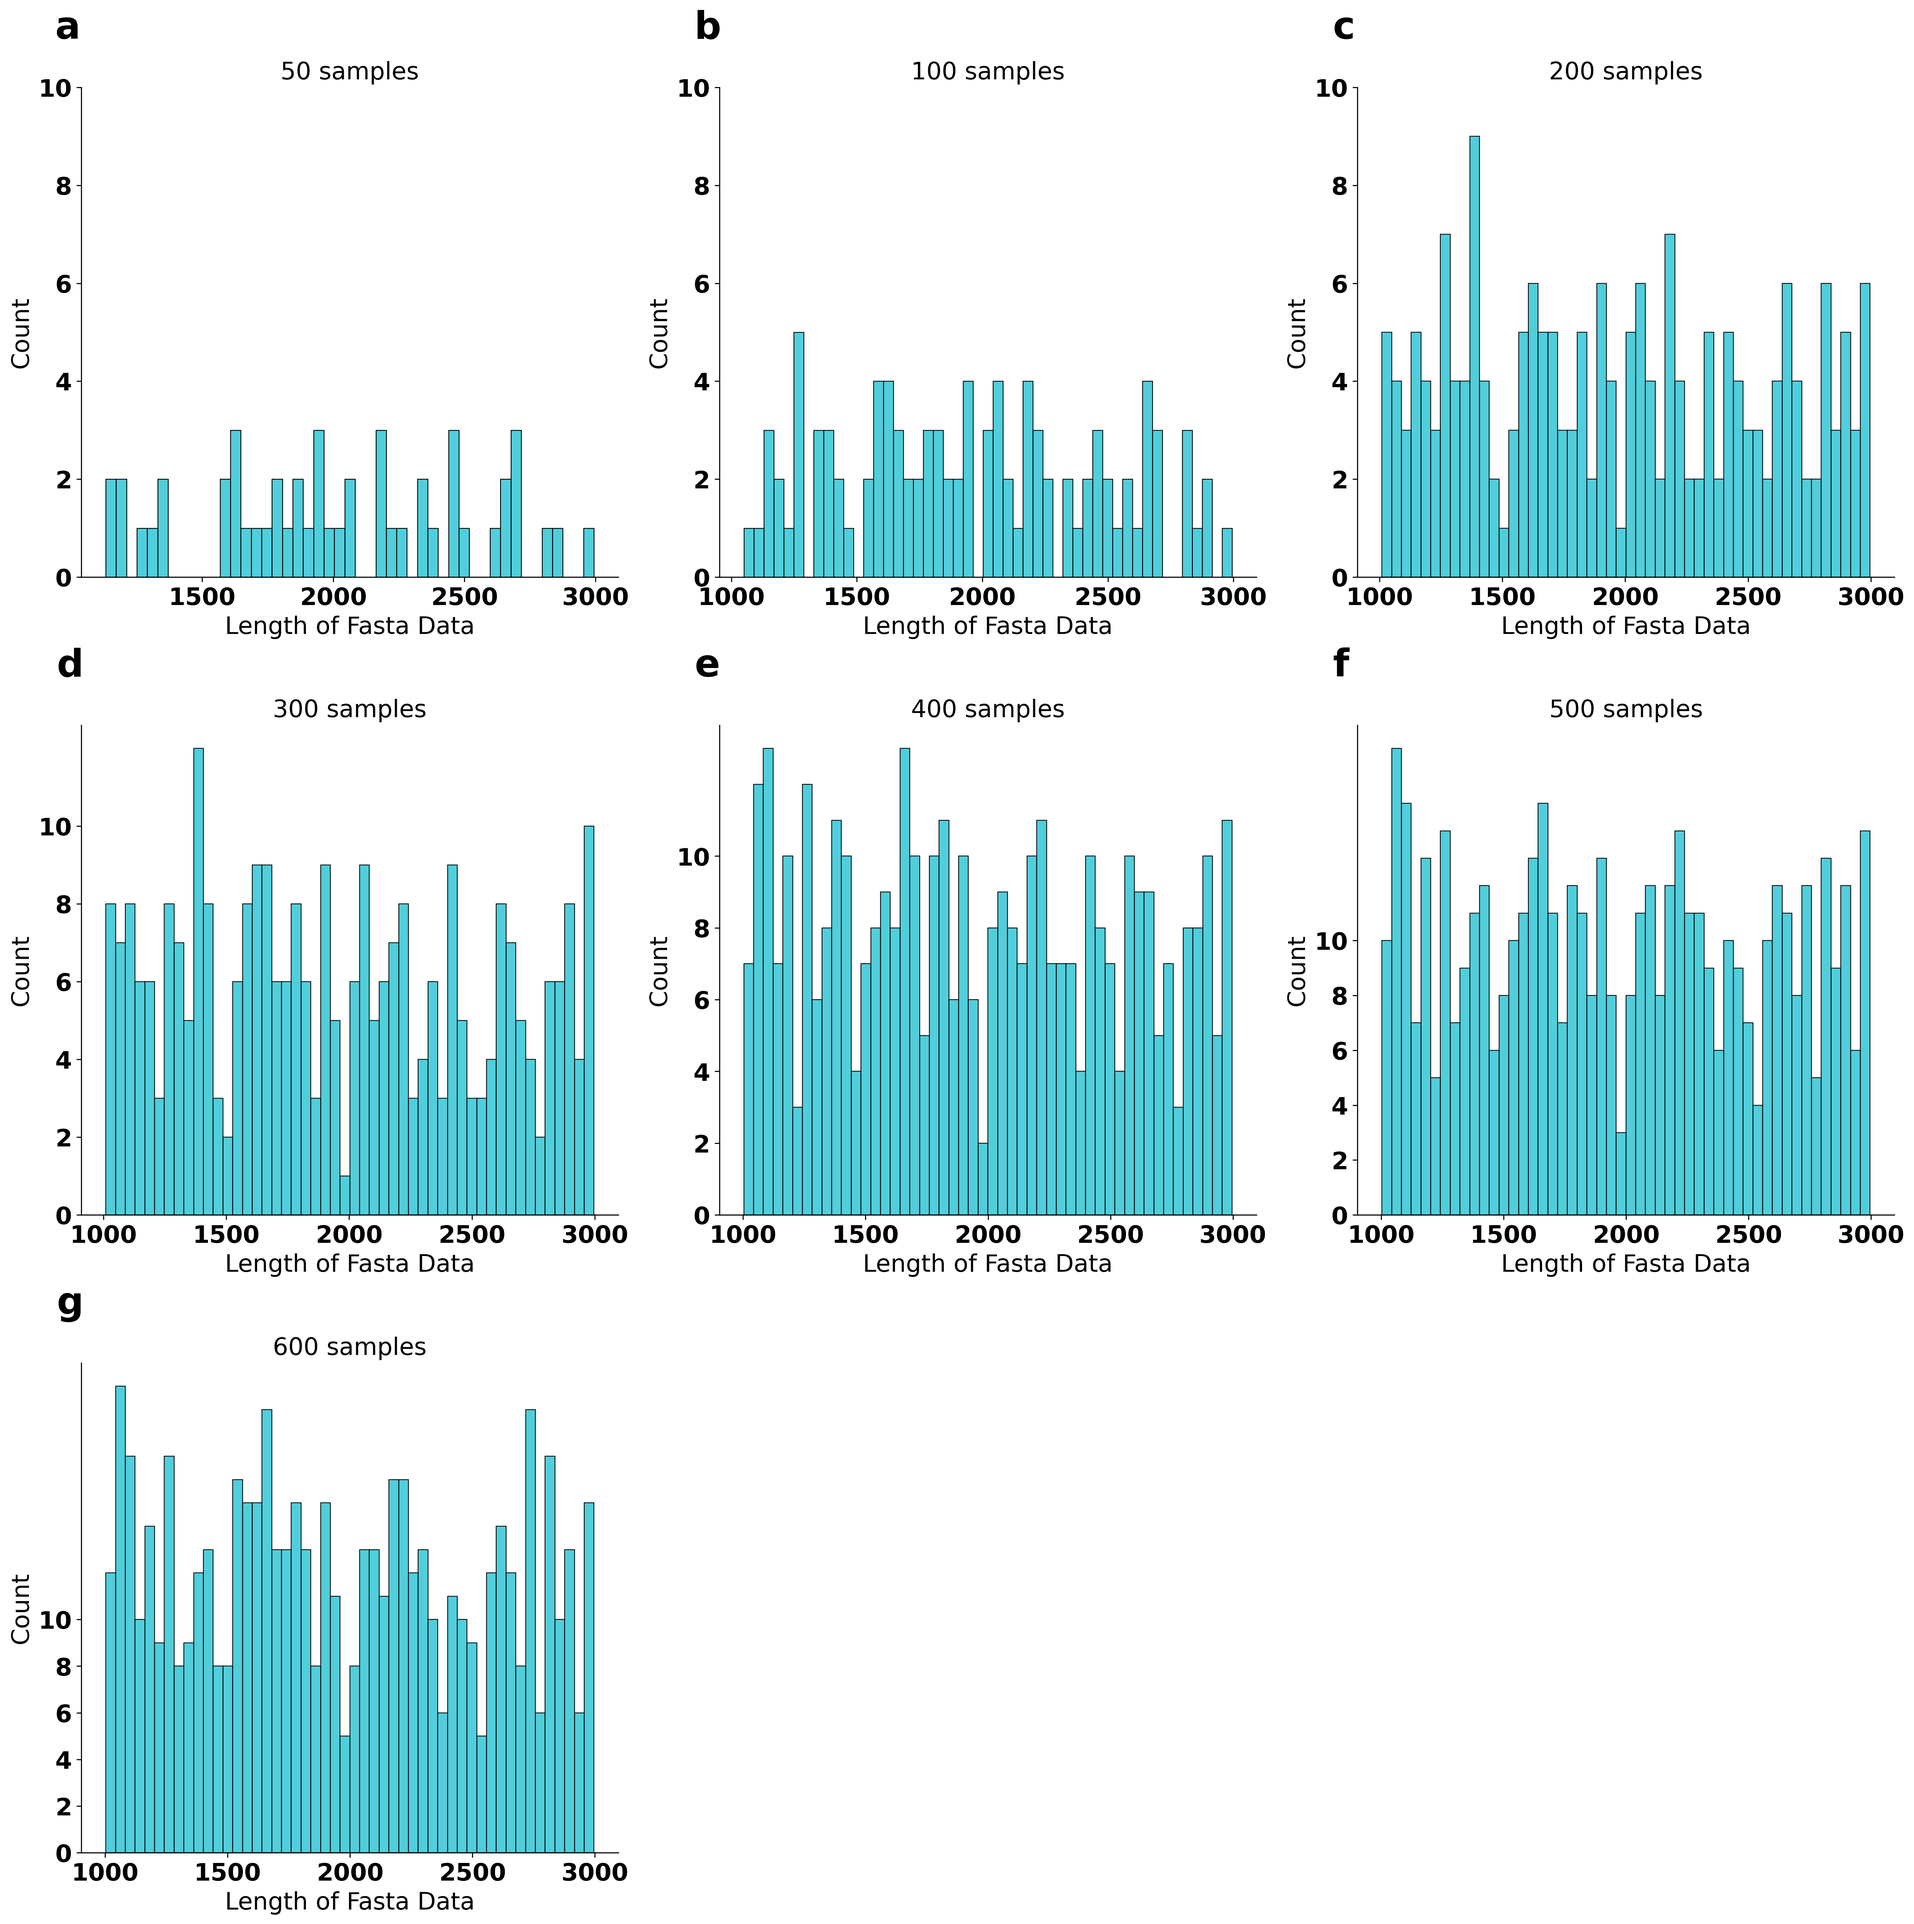
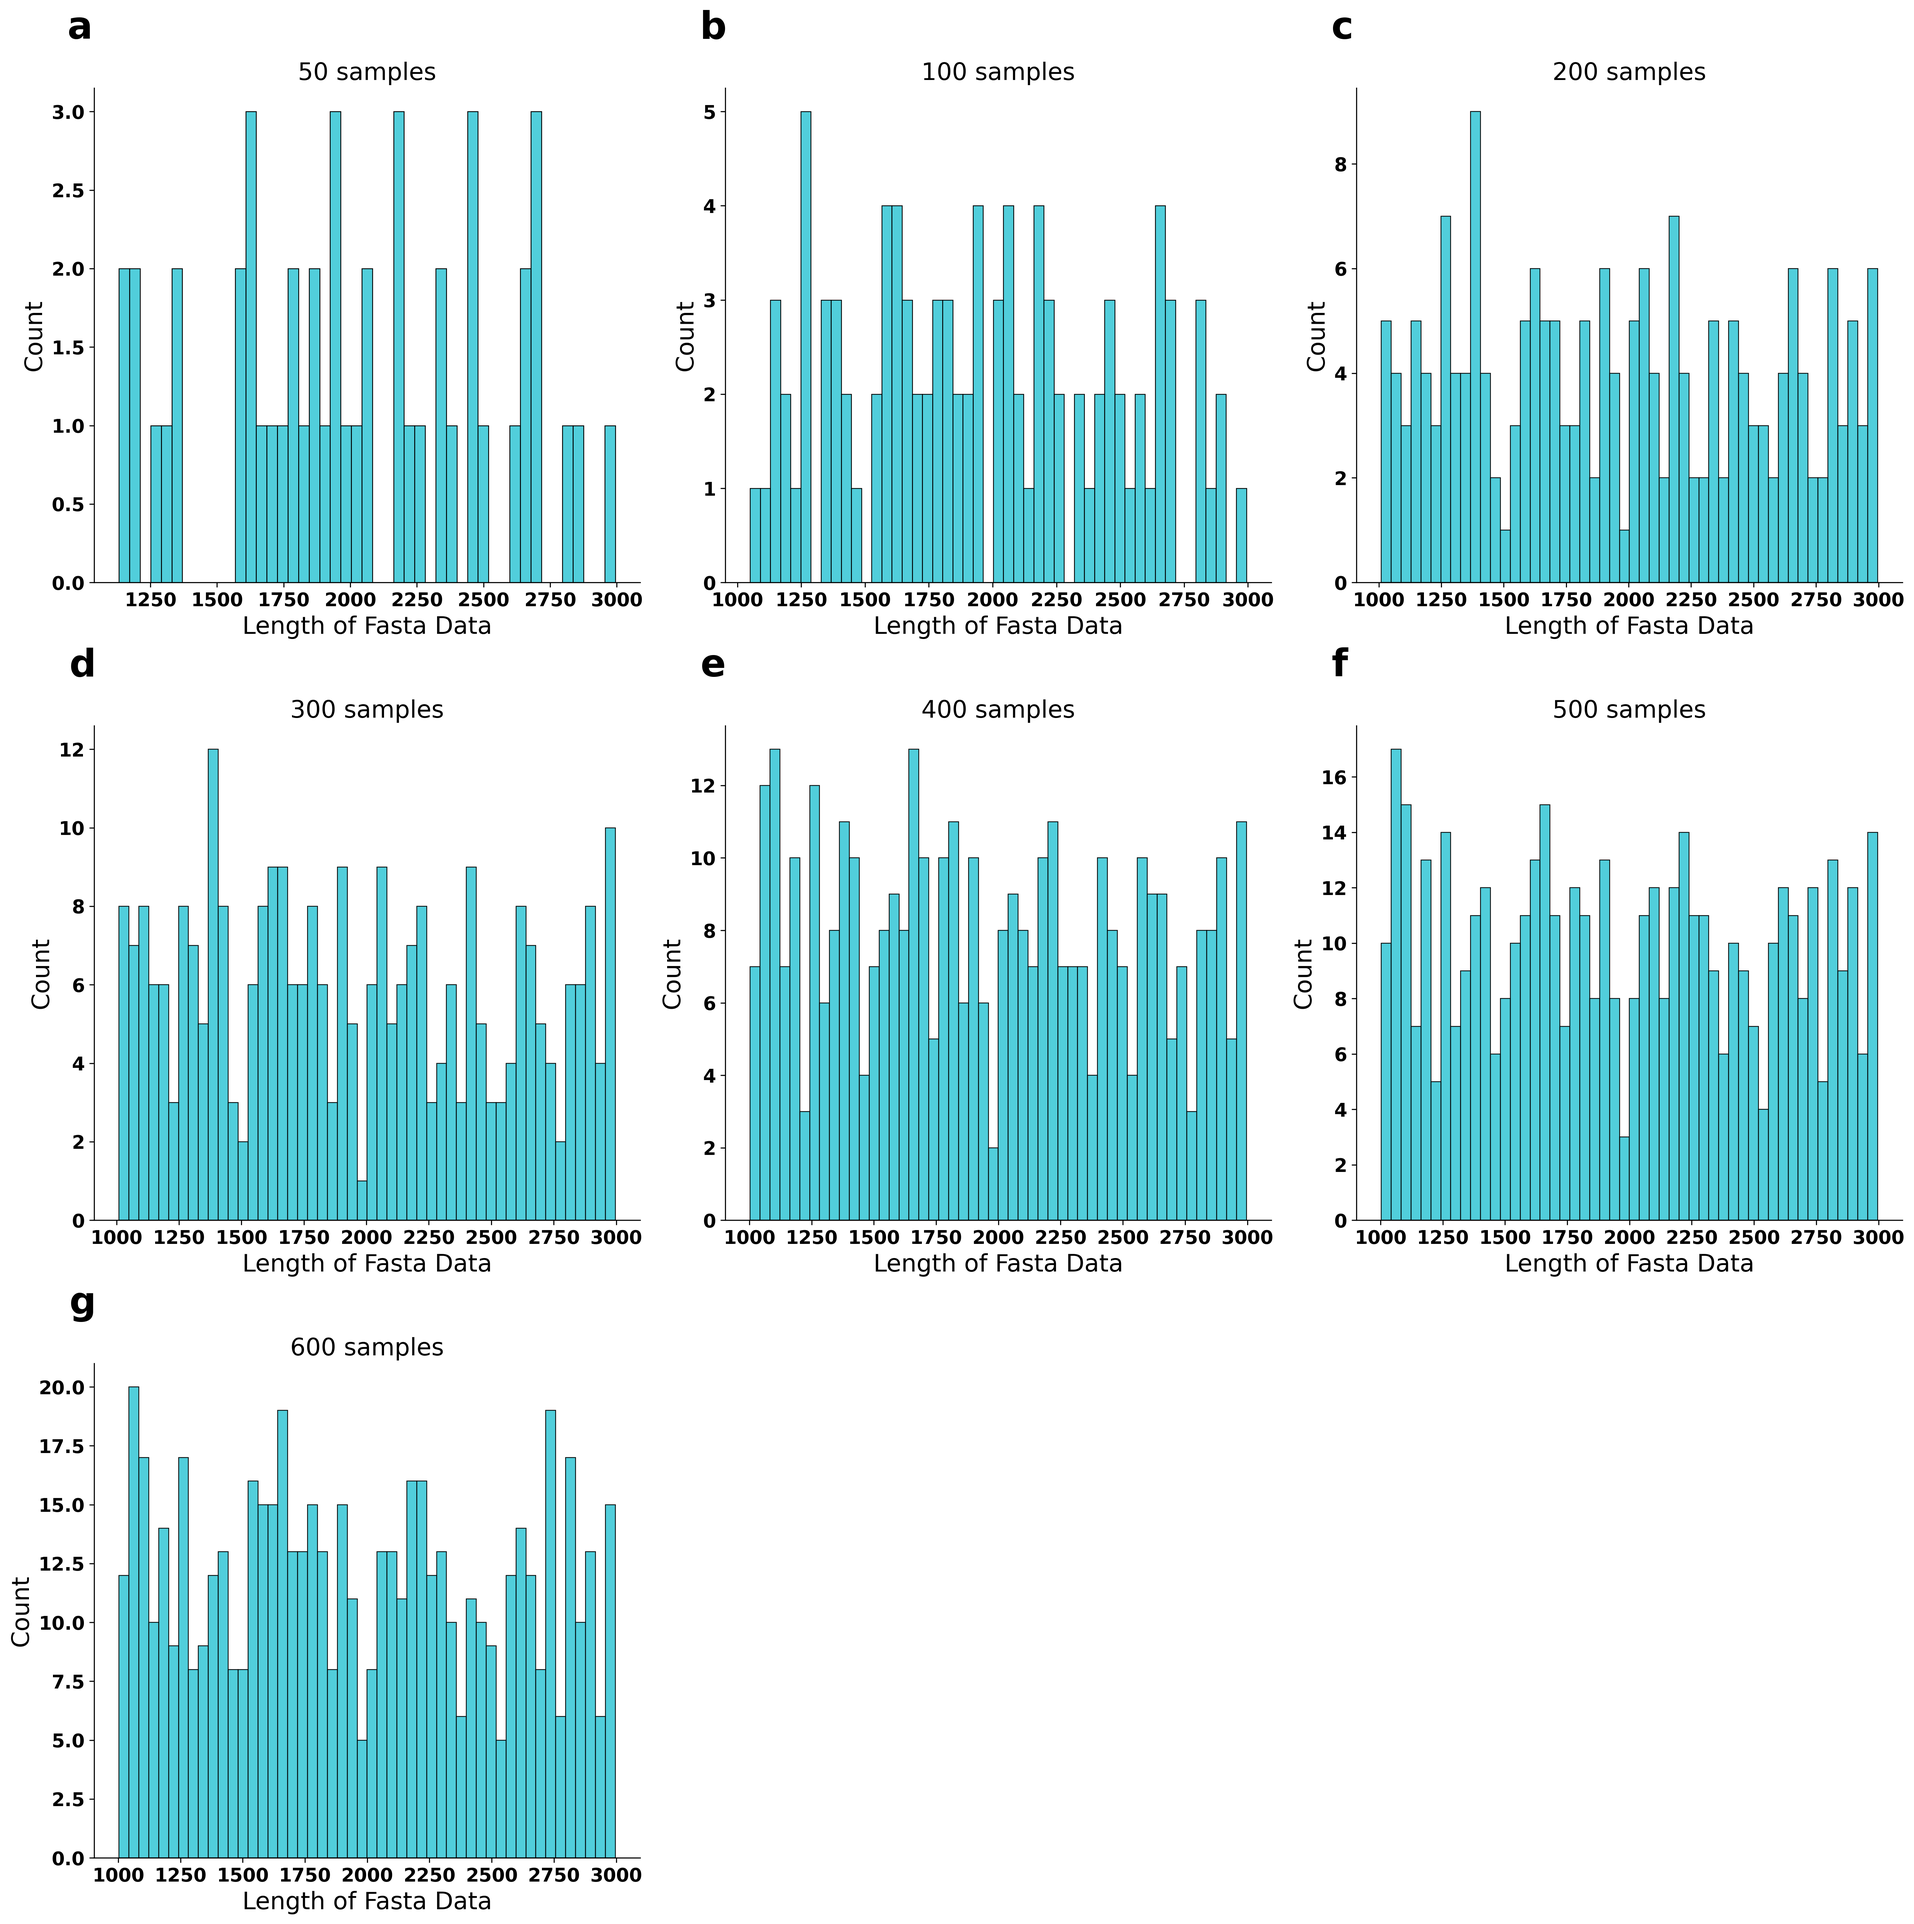
style: adjust font sizes for clarity

diff --git a/figures/fas_len.py b/figures/fas_len.py
@@ -31,7 +31,7 @@ def plot_fas_len(data_dirs, file_name, figure_size=(20, 20)):
 
     fig, axs = plt.subplots(3, 3, figsize=figure_size)
     axs = axs.flatten()
-    tick_labelsize = 18
+    tick_labelsize = 14
     labelsize = 18
     titlesize = 18
     color = "tab:cyan"
@@ -55,7 +55,7 @@ def plot_fas_len(data_dirs, file_name, figure_size=(20, 20)):
         _ = ax.set_xlabel(r"Length of Fasta Data", fontsize=labelsize)
         _ = ax.set_ylabel(r"Count", fontsize=labelsize)
         ax.set_title(f"{sample} samples", {"fontsize": titlesize})
-        ax.set_yticks(list(range(0, 12, 2)))
+        # ax.set_yticks(list(range(0, 12, 2)))
         ax.tick_params(axis="y", labelsize=tick_labelsize)
         ax.tick_params(axis="x", labelsize=tick_labelsize)
         ax.text(

diff --git a/figures/bench.py b/figures/bench.py
@@ -33,9 +33,9 @@ def main():
             f"{avg_speedup:.2f}x",
             (data_point, min(data_df[data_df["Data"] == data_point]["PxBLAT (s)"])),
             textcoords="offset points",
-            xytext=(0, -10),
+            xytext=(0, -12),
             ha="center",
-            fontsize=6,
+            fontsize=8,
             color="darkgreen",
         )
 
